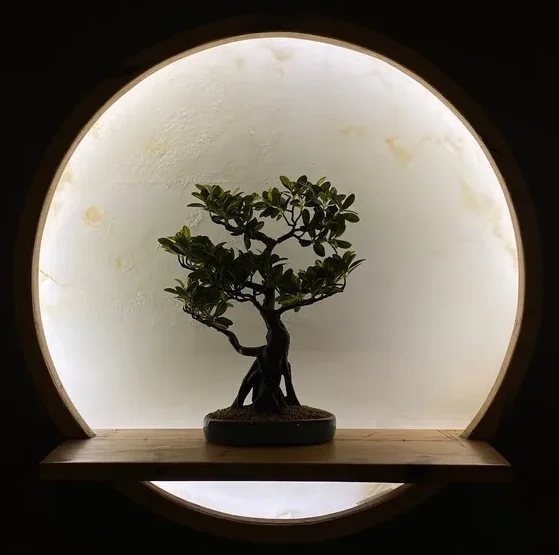
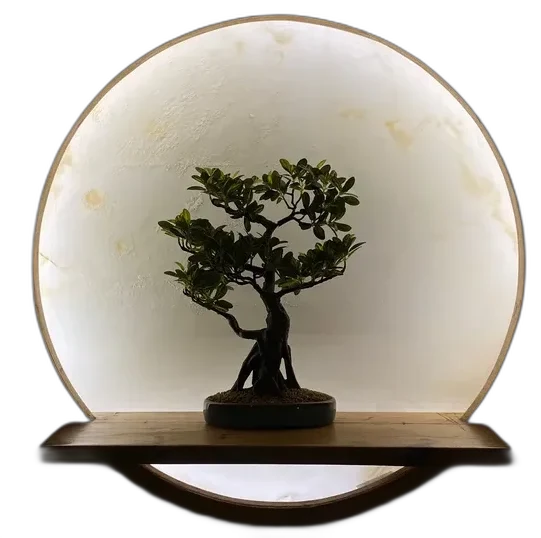
Détoure complètement le fond noir de la photo hero (accueil)
Le recadrage précédent laissait encore une marge noire visible.
Détourure complète via rembg : ne reste que le cercle éclairé et
l'étagère, qui flottent directement sur le fond du site.

diff --git a/index.html b/index.html
@@ -46,7 +46,7 @@
         <a href="contact.html" class="btn btn--ghost">Nous contacter</a>
       </div>
       <div class="hero__photo">
-        <img src="assets/images/hero-bonsai-alcove.webp" width="559" height="555" alt="Bonsaï présenté dans une niche éclairée, à la manière d'un tokonoma">
+        <img src="assets/images/hero-bonsai-alcove.webp" width="541" height="538" alt="Bonsaï présenté dans une niche éclairée, à la manière d'un tokonoma">
       </div>
     </div>
   </section>

diff --git a/assets/css/style.css b/assets/css/style.css
@@ -302,8 +302,6 @@ img { max-width: 100%; display: block; }
   width: 100%;
   max-width: 620px;
   margin: 0 auto;
-  border-radius: var(--radius-lg);
-  overflow: hidden;
 }
 .hero__photo img {
   width: 100%;

diff --git a/CLAUDE.md b/CLAUDE.md
@@ -93,11 +93,17 @@ la cliente aura ses propres photos (elle l'a confirmé explicitement : « on peu
 photos, qui seront remplacées par Maria ») :
 - `assets/images/hero-bonsai-alcove.webp` (hero accueil) : photo de la banque **Pexels**
   (licence gratuite, usage commercial autorisé sans attribution — vérifié avant intégration),
-  ne représente pas un arbre réel de Maria. **Recadrée le 2026-07-17** (bounding box du contenu
-  non-noir calculé via numpy pour retirer la grande marge noire du fond studio d'origine, 675×900
-  → 559×555) à la demande de la cliente (« enlève le rectangle noir autour de la photo »).
-  `.hero__photo` en CSS est passé de `max-width:320px` + bordure fine à `max-width:620px` sans
-  bordure avec `filter: drop-shadow(...)` sur l'image, pour un vrai visuel de hero plutôt qu'une
+  ne représente pas un arbre réel de Maria. **Retraitée le 2026-07-17 en deux temps** à la
+  demande de la cliente : d'abord recadrage (bounding box du contenu non-noir via numpy, 675×900
+  → 559×555) pour réduire la marge noire, puis — la cliente voulant que le noir disparaisse
+  complètement, pas juste être réduit (« il y a toujours le carré noir, il faut le rendre
+  transparent ») — **détourure complète au fond noir avec `rembg`/U2Net** (541×538 final, WebP
+  avec canal alpha), gardant uniquement le cercle éclairé et l'étagère en bois qui dépasse du
+  cercle (rembg gère bien cette silhouette non circulaire). `.hero__photo` en CSS est passé de
+  `max-width:320px` + bordure fine à `max-width:620px` **sans bordure ni `border-radius`/
+  `overflow:hidden`** (devenus inutiles, l'image a maintenant sa propre silhouette transparente)
+  avec juste `filter: drop-shadow(...)` sur l'image, pour un vrai visuel de hero qui flotte sur
+  le fond du site plutôt qu'une
   petite vignette encadrée.
 - `assets/images/bonsai-cutout.webp` (genévrier Pexels `pexels-j-232682-6392043.jpg`, fond
   détouré avec `rembg`/U2Net, recadré sur le sujet + petite marge, WebP avec canal alpha) :
